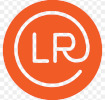
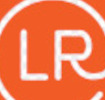
update footer and css

diff --git a/chamber/join.html b/chamber/join.html
@@ -21,7 +21,7 @@
             <header>
             <section>
                 <div class="element-1">
-                <picture class="clip-circle"><img src="images/logo.jpg" alt="sky logo"></picture>
+                <picture class="clip-circle"><img src="images/logo-removebg-preview.png" alt="sky logo"></picture>
                 <div class="flexwrap">
                     <h2>Sabai Voyage</h2>
                     <h6> Global Agent</h6>
@@ -163,7 +163,7 @@
 <footer>
     <section class="footer-section-1">
         <div class="element-1">
-            <picture class="clip-circle"><img src="images/logo.jpg" alt="sky logo"></picture>
+            <picture class="clip-circle"><img src="images/logo-removebg-preview.png" alt="sky logo"></picture>
             <div class="flexwrap">
                 <h1>Sabai Voyage</h1>
                 Global Agent
@@ -188,33 +188,32 @@
     <a href="https://alainsol.github.io/index.html">Assignment Portal</a></p>
     
     <p id="Portal_Last_Updated">Last Modified: <span id="Date_Modified"></span></p>
-</section>
-
-</footer>
-        </div>
-        
-<script src="js/nav.js"></script>
-<script src="https://ajax.googleapis.com/ajax/libs/webfont/1.6.26/webfont.js"></script>
-<script src="js/webfontload.js"></script>
-<script src="js/current_Date.js"></script>
-
-<script id="current_Date.js">
-// select the elements to manipulate (output to)
-const datefield = document.querySelector("date");
-const datefieldUK = document.querySelector("aside"); // for european/family history format with day first.
-// derive the current date using a date object
-const now = new Date();
-const fulldate = new Intl.DateTimeFormat("en-US", {
-dateStyle: "full"
-}).format(
-now
-);
-const fulldateUK = new Intl.DateTimeFormat("en-UK", {
-dateStyle: "full"
-}).format(now);
-// long, medium, short options ... try them
-datefield.innerHTML = `<em>${fulldate}</em>`;
-//datefieldUK.innerHTML = `<em>${fulldateUK}</em>`;
-</script>
-</body>
-</html>
+    </section>
+    </footer>
+            </div>
+            
+    <script src="js/nav.js"></script>
+    <script src="https://ajax.googleapis.com/ajax/libs/webfont/1.6.26/webfont.js"></script>
+    <script src="js/webfontload.js"></script>
+    <script src="js/current_Date.js"></script>
+    <script src="js/windchill.js"></script>
+    <script id="current_Date.js">
+    // select the elements to manipulate (output to)
+    const datefield = document.querySelector("time");
+    //const datefieldUK = document.querySelector("aside"); // for european/family history format with day first.
+    // derive the current date using a date object
+    const now = new Date();
+    const fulldate = new Intl.DateTimeFormat("en-US", {
+    dateStyle: "full"
+    }).format(
+    now
+    );
+    const fulldateUK = new Intl.DateTimeFormat("en-UK", {
+    dateStyle: "full"
+    }).format(now);
+    // long, medium, short options ... try them
+    datefield.innerHTML = `<em>${fulldate}</em>`;
+    //datefieldUK.innerHTML = `<em>${fulldateUK}</em>`;
+    </script>
+    </body>
+    </html>

diff --git a/chamber/index.html b/chamber/index.html
@@ -21,7 +21,7 @@
             <header>
             <section>
                 <div class="element-1">
-                <picture class="clip-circle"><img src="images/logo.jpg" alt="sky logo"></picture>
+                <picture class="clip-circle"><img src="images/logo-removebg-preview.png" alt="sky logo"></picture>
                 <div class="flexwrap">
                     <h2>Sabai Voyage</h2>
                     <h6> Global Agent</h6>
@@ -85,13 +85,13 @@
             <div class="box-container-1">
                 <div class="element-text-3">
                     <h1>Thankful Transport</h1>
-                    <img class="icon" src="images/car.png"  alt="Van">
+                    <img class="icon" src="images/003.1-Copy-300x275.png"  alt="Van">
                     <h3>"We get there for you"</h3>
                     <h4>email</h4>
                 </div>
                 <div class="element-text-4">
                     <h1> Code Primera</h1>
-                    <img  class="icon" src="images/pens.png" alt="pen">
+                    <img  class="icon" src="images/pens-removebg-preview.png" alt="pen">
                     <h3>An after School coding</h3>
                     <h4>contact</h4>
                 </div>
@@ -152,7 +152,7 @@
     <footer>
         <section class="footer-section-1">
             <div class="element-1">
-            <picture class="clip-circle"><img src="images/logo.jpg" alt="sky logo"></picture>
+            <picture class="clip-circle"><img src="images/logo-removebg-preview.png" alt="sky logo"></picture>
             <div class="flexwrap">
                 <h2>Sabai Voyage</h2>
                 Global Agent

diff --git a/chamber/directory.html b/chamber/directory.html
@@ -22,7 +22,7 @@
             <header>
                 <section>
                     <div class="element-1">
-                        <picture class="clip-circle"><img src="images/logo.jpg" alt="sky logo"></picture>
+                        <picture class="clip-circle"><img src="images/logo-removebg-preview.png" alt="sky logo"></picture>
                         <div class="flexwrap">
                             <h2>Sabai Voyage</h2>
                             <h6> Global Agent</h6>
@@ -96,7 +96,7 @@
 
                 <section class="footer-section-1">
                     <div class="element-1">
-                        <picture class="clip-circle"><img src="images/sky-logo.jpg" alt="sky logo"></picture>
+                        <picture class="clip-circle"><img src="images/logo-removebg-preview.png" alt="sky logo"></picture>
                         <div class="flexwrap">
                             <h1>Sabai Voyage</h1>
                             Global Agent

diff --git a/chamber/css/large.css b/chamber/css/large.css
@@ -193,7 +193,7 @@
         p {
             margin-left: 20px;
             color: rgb(253, 253, 253);
-            text-align: left;
+            text-align: center;
         }
 
     }

diff --git a/chamber/css/medium.css b/chamber/css/medium.css
@@ -100,7 +100,7 @@
    }
    
    .icon{
-       margin: 10px;
+       margin: 0;
    }
     .element-text-5{
         margin-bottom: 20px;
